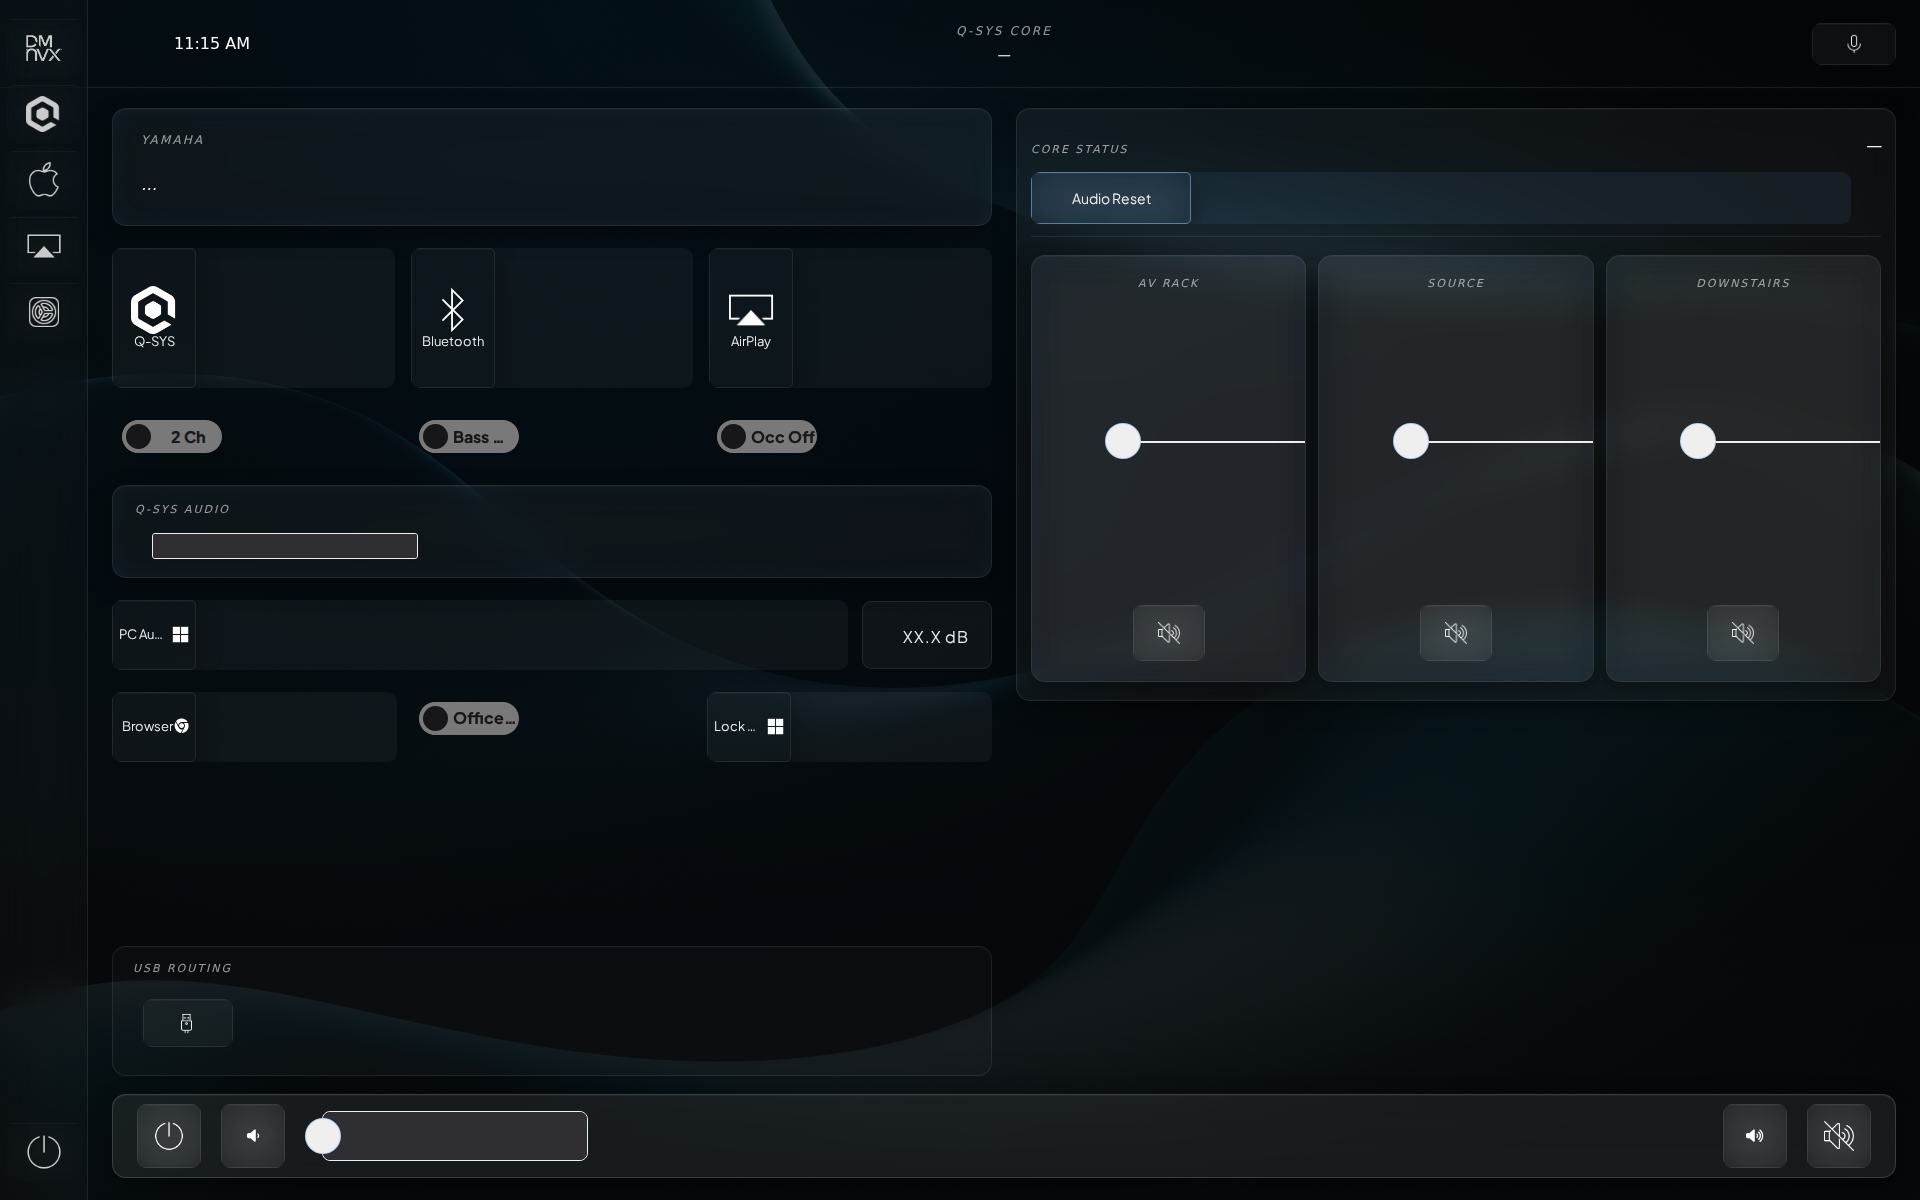
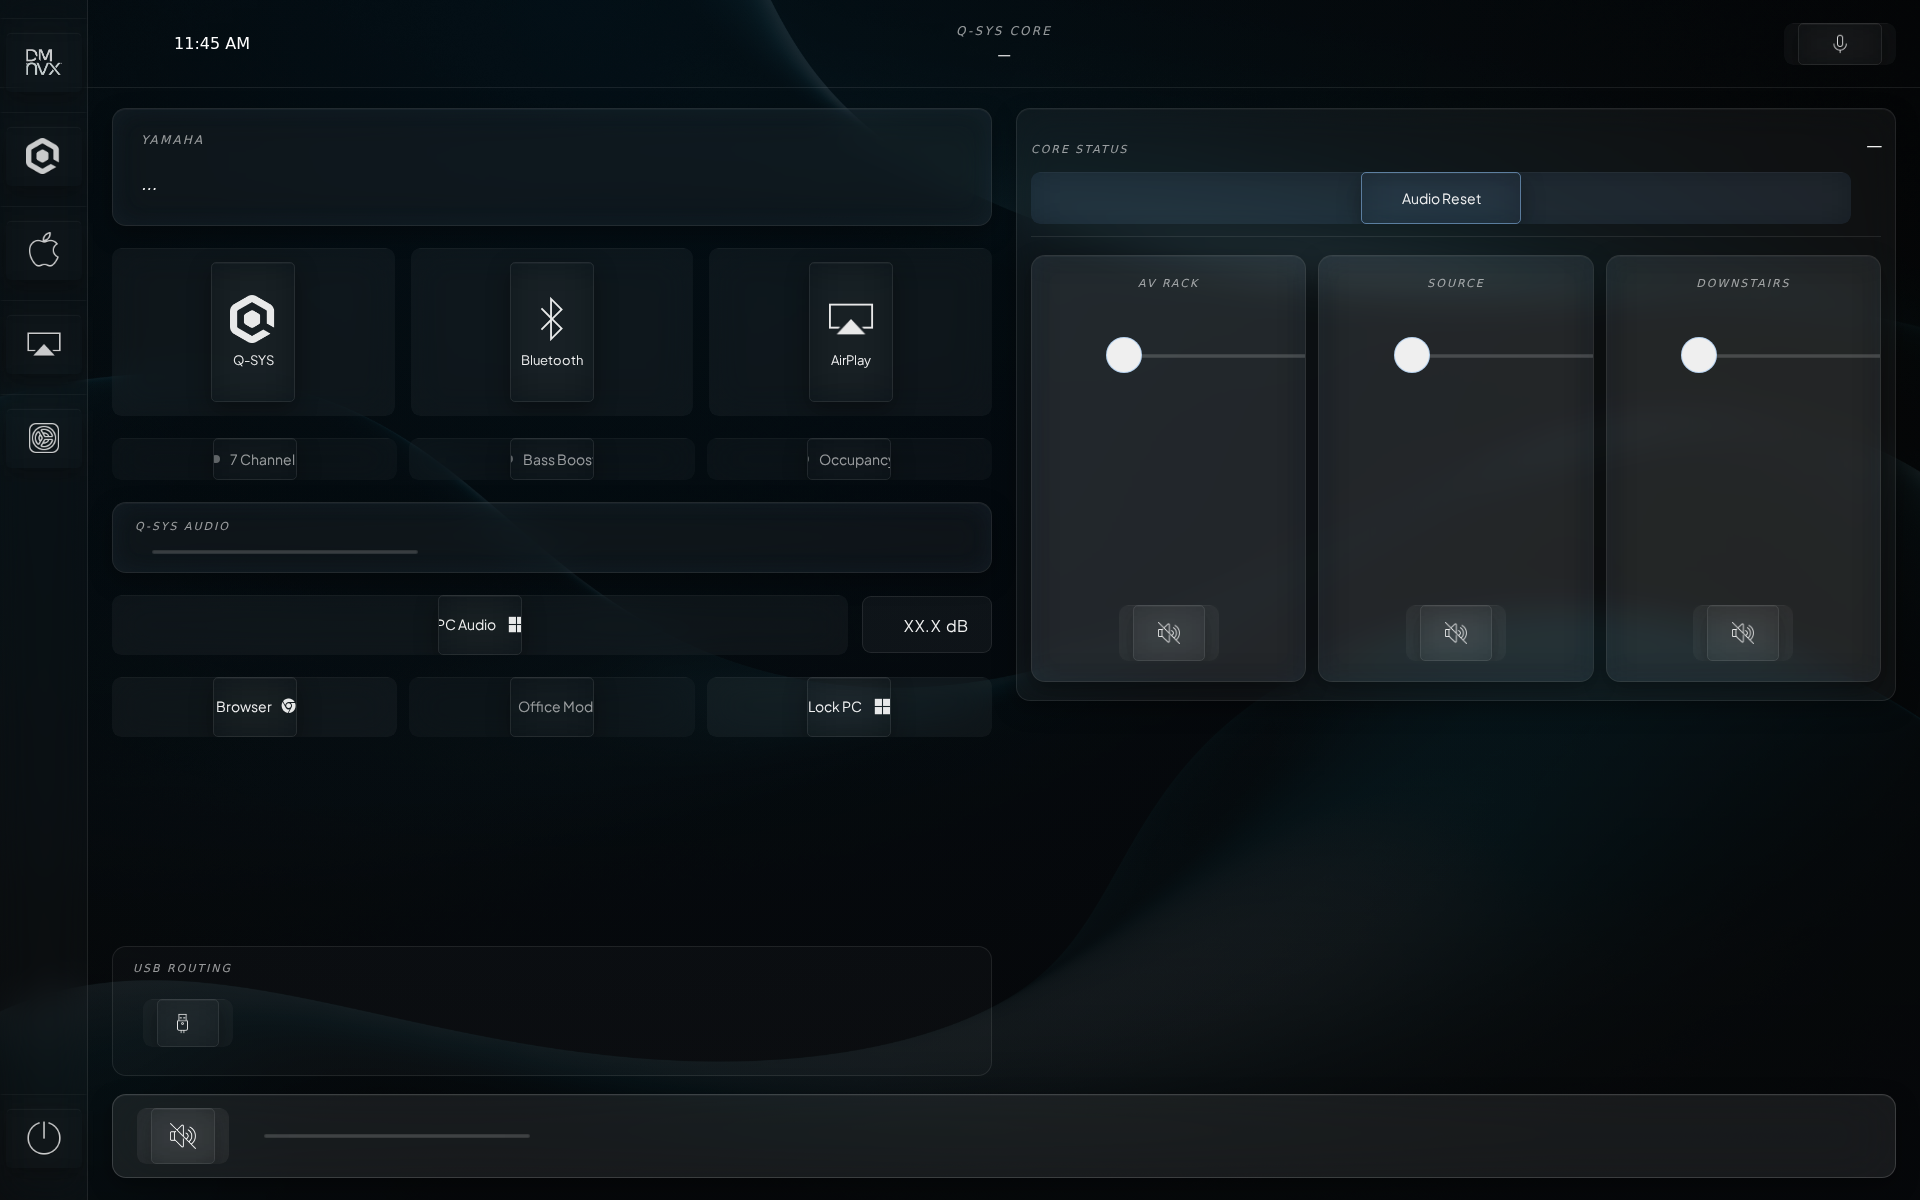
style: revamp LH controls + Construct-style full-width volume bar
LH static frame:
- Toggles replaced. ch5-toggle's built-in dot+track combo can't be
  fully restyled without forking the component (you get its DOM as-is),
  so the three audio mode toggles (7 Ch, Bass Boost, Occupancy) and
  the Office Mode action are now <ch5-button class="toggle-pill">.
  Pill style: faint glass fill with a small status dot on the left
  that lights up to --accent (with soft glow) when selected. Visual
  state IS the on/off indicator — no more "X On / X Off" label swap.
- All buttons now center their icon+label stack properly. Default CH5
  button content is left-aligned; we explicitly set flex/justify-
  content/text-align in the global theme so single-icon and icon+label
  buttons read centered.
- Labels no longer truncate. CH5's internal CSS applies text-overflow:
  ellipsis to .cb-lbl; we override with stronger specificity and
  !important so labels render fully (white-space:nowrap, overflow:
  visible, text-overflow:unset).
- Action row spacing tightened, font 14px throughout for rhythm.

Bottom bar — Construct style:
- Dropped the vol-up / vol-down buttons (their digital joins were TODO
  placeholders anyway). Now matches the original Office_V2 volume
  widget: just mute on the left + master slider stretching the full
  width of the bar.
- Slider got a heavier glass treatment: track is rgba(255,255,255,0.05)
  with hairline border and backdrop-blur, fill uses an accent gradient
  with soft glow. handle hidden (nohandle="true") + tap-settable for
[…]

diff --git a/app/project/assets/scss/custom-themes/office-v3-theme.css b/app/project/assets/scss/custom-themes/office-v3-theme.css
@@ -178,7 +178,7 @@ ch5-button {
   --ch5-button--default-border-width:               1px;
   --ch5-button--default-label-font-color:           var(--text);
 
-  --ch5-button--regular-font-size:                  13px;
+  --ch5-button--regular-font-size:                  14px;
 
   --ch5-button--default-pressed-background-color:   var(--panel-strong);
   --ch5-button--default-pressed-border-color:       var(--accent-soft);
@@ -193,12 +193,66 @@ ch5-button {
   overflow: hidden;
 }
 
+/* Center the icon + label stack inside every ch5-button. By default
+   CH5 left-aligns its content; we want the icon and label centered. */
 ch5-button .cb-btn,
-ch5-button button {
+ch5-button .ch5-button {
+  display: flex !important;
+  flex-direction: row;
+  align-items: center;
+  justify-content: center;
+  gap: 8px;
+  text-align: center;
+  width: 100%;
+  height: 100%;
+  padding: 0 14px;
   -webkit-backdrop-filter: blur(var(--blur));
   backdrop-filter: blur(var(--blur));
   box-shadow: var(--shadow-rest);
-  transition: box-shadow 120ms ease, background-color 120ms ease;
+  transition: box-shadow 120ms ease, background-color 120ms ease, border-color 120ms ease;
+}
+
+/* When iconposition=top, stack vertically with the icon above the label */
+ch5-button[iconposition="top"] .cb-btn,
+ch5-button[iconposition="top"] .ch5-button {
+  flex-direction: column;
+  gap: 10px;
+  padding: 14px 12px;
+}
+
+/* The actual <i.cb-icon> element — never collapse, fill the size CH5 expects */
+ch5-button .cb-icon,
+ch5-button .ch5-button--img {
+  background-size: contain !important;
+  background-repeat: no-repeat !important;
+  background-position: center !important;
+  display: inline-block !important;
+  flex-shrink: 0;
+  opacity: 0.9;
+  transition: opacity 120ms ease;
+}
+
+ch5-button[selected="true"] .cb-icon,
+ch5-button[selected] .cb-icon { opacity: 1; }
+
+/* Labels: single line, never truncate. Override CH5's internal
+   text-overflow:ellipsis with stronger specificity. */
+ch5-button .cb-lbl,
+ch5-button .ch5-button--label,
+ch5-button .ch5-button--label.cb-lbl,
+ch5-button button .cb-lbl,
+ch5-button button .ch5-button--label {
+  font-family: var(--font-sans) !important;
+  font-weight: 400 !important;
+  letter-spacing: 0 !important;
+  line-height: 1.2 !important;
+  white-space: nowrap !important;
+  overflow: visible !important;
+  text-overflow: clip !important;
+  text-overflow: unset !important;
+  max-width: none !important;
+  width: auto !important;
+  flex: 0 0 auto;
 }
 
 ch5-button[selected="true"] .cb-btn,
@@ -221,6 +275,30 @@ ch5-button.glass-btn.danger {
   --ch5-button--default-label-font-color:    var(--danger);
 }
 
+/* Toggle pill — ch5-button used as a soft on/off pill */
+ch5-button.toggle-pill {
+  --ch5-button--default-background-color:           rgba(255, 255, 255, 0.03);
+  --ch5-button--default-border-color:               var(--hairline);
+  --ch5-button--default-label-font-color:           var(--text-dim);
+  --ch5-button--default-selected-background-color:  rgba(120, 180, 255, 0.18);
+  --ch5-button--default-selected-border-color:      var(--accent);
+  --ch5-button--default-selected-label-font-color:  var(--text);
+}
+ch5-button.toggle-pill .cb-btn::before {
+  content: "";
+  width: 8px;
+  height: 8px;
+  border-radius: 50%;
+  background: var(--text-mute);
+  flex-shrink: 0;
+  transition: background-color 160ms ease, box-shadow 160ms ease;
+}
+ch5-button.toggle-pill[selected="true"] .cb-btn::before,
+ch5-button.toggle-pill[selected] .cb-btn::before {
+  background: var(--accent);
+  box-shadow: 0 0 10px var(--accent-glow);
+}
+
 /* ============================================================
    ch5-toggle: glass pill
    ============================================================ */
@@ -240,15 +318,39 @@ ch5-toggle {
    ============================================================ */
 
 ch5-slider {
-  --ch5-slider--background-color:           var(--panel);
-  --ch5-slider--border-color:               var(--hairline);
+  --ch5-slider--background-color:           transparent;
+  --ch5-slider--border-color:               transparent;
   --ch5-slider--bar-color:                  rgba(255, 255, 255, 0.06);
   --ch5-slider--filled-bar-color:           var(--accent);
   --ch5-slider--handle-color:               var(--text);
   --ch5-slider--handle-border-color:        var(--accent-soft);
   --ch5-slider--tooltip-background-color:   rgba(0, 0, 0, 0.7);
   --ch5-slider--tooltip-color:              var(--text);
+  display: block;
+  width: 100%;
   border-radius: var(--radius);
+}
+
+/* Bottom-bar full-width slider — bigger track + glass treatment */
+ch5-slider.bottom__volume {
+  --ch5-slider--filled-bar-color:           rgba(190, 220, 250, 0.85);
+}
+
+ch5-slider .noUi-base,
+ch5-slider .noUi-target {
+  background: rgba(255, 255, 255, 0.05) !important;
+  border: 1px solid var(--hairline) !important;
+  border-radius: 999px !important;
+  -webkit-backdrop-filter: blur(var(--blur));
+  backdrop-filter: blur(var(--blur));
+  height: 100% !important;
+}
+
+ch5-slider .noUi-connect,
+ch5-slider .noUi-connects {
+  background: linear-gradient(90deg, var(--accent-soft), var(--accent)) !important;
+  box-shadow: 0 0 22px var(--accent-glow);
+  border-radius: 999px !important;
 }
 
 .fader-strip,

diff --git a/app/project/components/pages/mainpage/mainpage.html b/app/project/components/pages/mainpage/mainpage.html
@@ -129,20 +129,26 @@
       </ch5-button>
     </div>
 
-    <!-- Audio toggles -->
+    <!-- Audio toggles — ch5-button as toggle pill (cleaner than ch5-toggle) -->
     <div class="left__toggles">
-      <ch5-toggle
-          sendeventonclick="50" receivestatevalue="50"
-          labelon="7 Ch" labeloff="2 Ch">
-      </ch5-toggle>
-      <ch5-toggle
-          sendeventonclick="47" receivestatevalue="47"
-          labelon="Bass On" labeloff="Bass Off">
-      </ch5-toggle>
-      <ch5-toggle
-          sendeventonclick="11" receivestatevalue="11"
-          labelon="Occ On" labeloff="Occ Off">
-      </ch5-toggle>
+      <ch5-button
+          class="toggle-pill"
+          shape="rounded-rectangle"
+          sendeventontouch="50" receivestateselected="50"
+          label="7 Channel">
+      </ch5-button>
+      <ch5-button
+          class="toggle-pill"
+          shape="rounded-rectangle"
+          sendeventontouch="47" receivestateselected="47"
+          label="Bass Boost">
+      </ch5-button>
+      <ch5-button
+          class="toggle-pill"
+          shape="rounded-rectangle"
+          sendeventontouch="11" receivestateselected="11"
+          label="Occupancy">
+      </ch5-button>
     </div>
 
     <!-- Q-SYS Audio gauge (small inline gauge slider, analog 2) -->
@@ -168,7 +174,7 @@
       </span>
     </div>
 
-    <!-- Browser / Office toggle / Lock PC -->
+    <!-- Browser / Office / Lock — Office is now a button toggle (selected = on) -->
     <div class="left__actions">
       <ch5-button
           shape="rounded-rectangle"
@@ -176,10 +182,12 @@
           label="Browser"
           iconclass="fab fa-chrome" iconposition="last">
       </ch5-button>
-      <ch5-toggle
-          sendeventonclick="48" receivestatevalue="49"
-          labelon="Office On" labeloff="Office Off">
-      </ch5-toggle>
+      <ch5-button
+          class="toggle-pill"
+          shape="rounded-rectangle"
+          sendeventontouch="48" receivestateselected="49"
+          label="Office Mode">
+      </ch5-button>
       <ch5-button
           shape="rounded-rectangle"
           sendeventontouch="7" receivestateselected="7"
@@ -257,46 +265,23 @@
     </ch5-template>
   </main>
 
-  <!-- ============ BOTTOM BAR — master volume ============ -->
-  <!-- TODO(joins): vol-up / vol-down digital joins (8/9 placeholder) need
-       confirmation from the SIMPL .smw — currently they pulse the placeholder
-       joins; ask user before deploying if they should adjust the analog 1
-       value directly via SIMPL. -->
+  <!-- ============ BOTTOM BAR — master volume (Construct-style: full-width slider + mute) ============ -->
   <footer class="mainpage__bottom glass-panel-strong">
     <ch5-button
-        id="mp-power-bottom"
+        id="mp-mute"
+        class="bottom__mute"
         shape="rounded-rectangle"
-        sendeventontouch="1" receivestateselected="1"
-        iconurl="./app/project/assets/img/Power.png" label="">
-    </ch5-button>
-    <ch5-button
-        id="mp-vol-down"
-        class="bottom__voldown"
-        shape="rounded-rectangle"
-        sendeventontouch="9" receivestateselected="9"
-        iconclass="fas fa-volume-down" label="">
+        sendeventontouch="10" receivestateselected="10"
+        iconurl="./app/project/assets/img/Mute%20Icon.png" label="">
     </ch5-button>
     <ch5-slider
         class="bottom__volume"
         slidertype="gauge"
         max="65535" value="0"
         sendeventonchange="1" receivestatevalue="1"
-        nohandle="false" handleshape="circle"
+        nohandle="true" handleshape="rectangle"
         tapsettable="true">
     </ch5-slider>
-    <ch5-button
-        id="mp-vol-up"
-        class="bottom__volup"
-        shape="rounded-rectangle"
-        sendeventontouch="8" receivestateselected="8"
-        iconclass="fas fa-volume-up" label="">
-    </ch5-button>
-    <ch5-button
-        id="mp-mute"
-        shape="rounded-rectangle"
-        sendeventontouch="10" receivestateselected="10"
-        iconurl="./app/project/assets/img/Mute%20Icon.png" label="">
-    </ch5-button>
   </footer>
 
   <!-- Default the right pane to NVX on cold start so the panel never lands

diff --git a/app/project/components/pages/mainpage/mainpage.scss b/app/project/components/pages/mainpage/mainpage.scss
@@ -225,33 +225,33 @@
     align-items: center;
 
     ch5-button {
-      --ch5-button--regular-height: 70px;
-      --ch5-button--regular-font-size: 13px;
+      --ch5-button--regular-height: 60px;
+      --ch5-button--regular-font-size: 14px;
     }
     .left__db {
-      font-size: 20px;
+      font-size: 18px;
+      font-weight: 400;
       font-feature-settings: "tnum" on;
       letter-spacing: 0.04em;
-      padding: 18px 22px;
+      padding: 14px 22px;
       background: var(--panel);
       border: 1px solid var(--hairline);
       border-radius: var(--radius-sm);
       min-width: 130px;
       text-align: right;
+      white-space: nowrap;
     }
   }
 
-  /* Browser / Office / Lock */
+  /* Browser / Office / Lock — same height for rhythm */
   .left__actions {
     display: grid;
     grid-template-columns: 1fr 1fr 1fr;
     gap: 12px;
 
-    ch5-button, ch5-toggle {
-      --ch5-button--regular-height: 70px;
-      --ch5-toggle--height: 70px;
-      --ch5-button--regular-font-size: 13px;
-      --ch5-toggle--font-size: 13px;
+    ch5-button {
+      --ch5-button--regular-height: 60px;
+      --ch5-button--regular-font-size: 14px;
     }
   }
 
@@ -295,7 +295,7 @@
 }
 
 /* ============================================================
-   BOTTOM BAR — 100 px tall
+   BOTTOM BAR — Construct-style: mute on left, slider full-width
    ============================================================ */
 
 .mainpage__bottom {
@@ -305,21 +305,21 @@
   bottom: 22px;
   height: 84px;
   display: grid;
-  grid-template-columns: auto auto 1fr auto auto;
-  gap: 20px;
+  grid-template-columns: auto 1fr;     /* mute | full-width slider */
+  gap: 18px;
   align-items: center;
   padding: 0 24px;
 
-  ch5-button {
+  .bottom__mute {
     --ch5-button--regular-width: 64px;
-    --ch5-button--regular-height: 64px;
-    --ch5-button--regular-image-width: 30px;
-    --ch5-button--regular-image-height: 30px;
+    --ch5-button--regular-height: 56px;
+    --ch5-button--regular-image-width: 26px;
+    --ch5-button--regular-image-height: 26px;
   }
 
   .bottom__volume {
-    --ch5-slider--height: 50px;
     width: 100%;
+    --ch5-slider--height: 50px;
   }
 }
 
